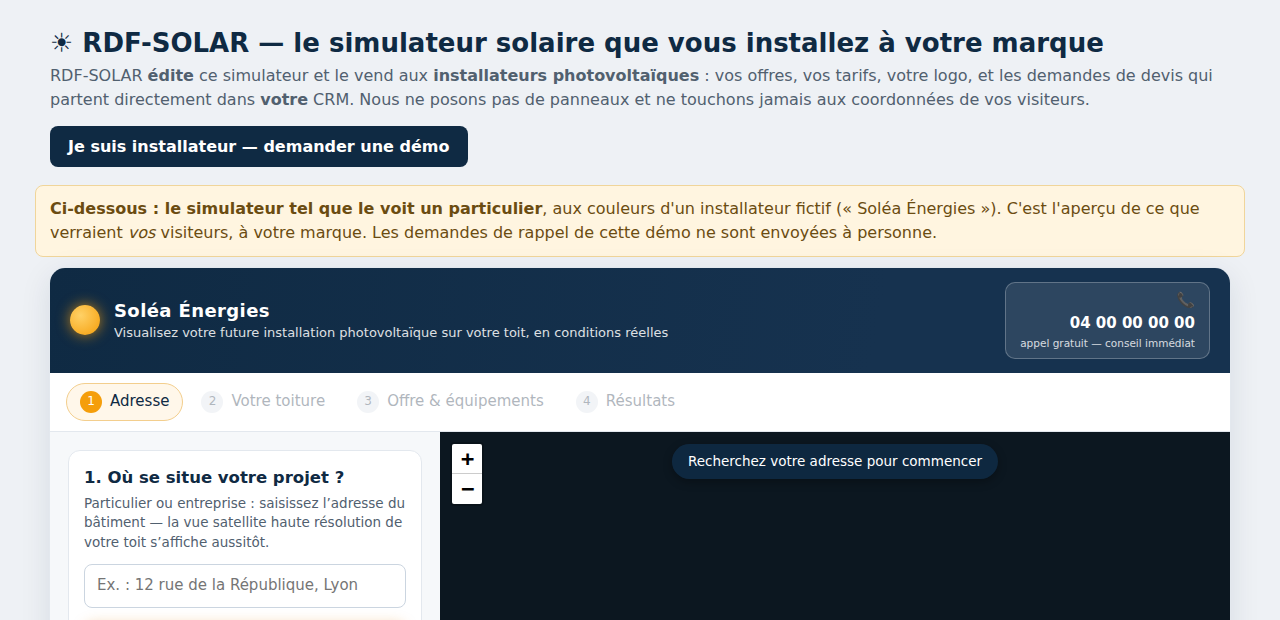
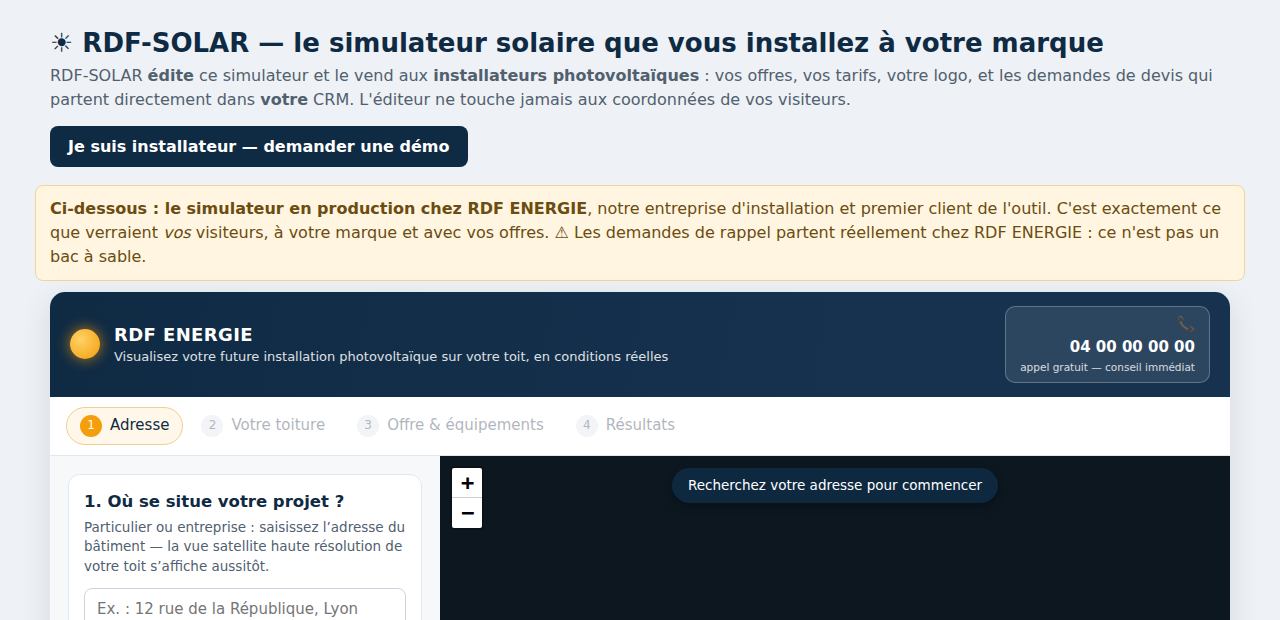
Nommer l'installateur : RDF ENERGIE, et non le logiciel
Le champ `brand.name` portait « RDF-SOLAR », c'est-à-dire le nom de
l'ÉDITEUR à la place de celui de l'INSTALLATEUR. RDF ENERGIE, notre
entreprise de pose et premier client du simulateur, n'était nommée nulle
part dans le dépôt. C'est la racine de la confusion : un visiteur voyait
l'éditeur d'un logiciel lui proposer de poser des panneaux.

- `config/offers.json` : `brand.name` devient « RDF ENERGIE ». Le
  catalogue est présenté pour ce qu'il est — celui de notre installateur,
  traité comme un client tiers pour que le deuxième s'intègre sans
  réécriture. `contactEmail` et `phone` restent ceux du logiciel et sont
  signalés à remplacer par les coordonnées commerciales de RDF ENERGIE.
- Vitrine : le bandeau ne parle plus d'installateur fictif ni de démo
  inerte. Le simulateur est en production chez RDF ENERGIE et les
  demandes de rappel lui parviennent réellement — c'est dit au visiteur.
- README : tableau des deux entités RDF (éditeur / installateur), et
  rappel que le SaaS n'a qu'un client, qui est nous-mêmes — d'où
  l'absence de pression, jusqu'ici, à séparer les deux rôles.

Vérifié au navigateur : logo, pied de page et message WhatsApp portent
« RDF ENERGIE » ; « RDF-SOLAR » n'apparaît que dans la vitrine éditeur.
Capture docs/screenshots/vitrine.png régénérée. 36 tests moteur au vert.

Claude-Session: https://claude.ai/code/session_01Nsyt4T5Hoqm8S2CawmfpLq

Changed region(s): [[0.0312, 0.3065, 0.9688, 1.0], [0.2812, 0.1532, 0.8438, 0.1839]]

diff --git a/dist/rdf-solar-demo-autonome.html b/dist/rdf-solar-demo-autonome.html
@@ -1382,9 +1382,10 @@ svg.leaflet-image-layer.leaflet-interactive path {
   <p>Fichier unique, à ouvrir dans un navigateur connecté à Internet. RDF-SOLAR édite ce simulateur et le vend aux installateurs photovoltaïques.</p>
 </div>
 <div class="demo-note">
-  Le simulateur ci-dessous est affiché aux couleurs d'un installateur <b>fictif</b>
-  (« Soléa Énergies ») : c'est l'aperçu de ce que verraient vos visiteurs, à votre marque.
-  Les demandes de rappel de cette démo ne sont envoyées à personne.
+  Le simulateur ci-dessous est affiché aux couleurs de <b>RDF ENERGIE</b>, notre entreprise
+  d'installation et premier client de l'outil : c'est exactement ce que verraient vos
+  visiteurs, à votre marque et avec vos offres. ⚠ Les demandes de rappel partent réellement
+  chez RDF ENERGIE.
 </div>
 <div id="rdf-solar-sim"></div>
 <script>/* @preserve
@@ -5516,10 +5517,11 @@ svg.leaflet-image-layer.leaflet-interactive path {
 <script>
   window.__sim = RDFSolarSim.mount('#rdf-solar-sim', {
     offers: {
-  "_lecteur": "Catalogue de DÉMONSTRATION et modèle à copier. La marque ci-dessous est un installateur FICTIF : la démo publique doit montrer le simulateur aux couleurs d'un client, jamais aux nôtres — sinon un particulier croit que RDF-SOLAR pose des panneaux et nous envoie un lead qui n'est pas le nôtre. Remplacez tout le bloc brand par vos coordonnées réelles.",
+  "_lecteur": "Catalogue de RDF ENERGIE, notre entreprise d'installation — premier client du simulateur, et modèle à copier pour les suivants. Le champ brand.name porte l'INSTALLATEUR (RDF ENERGIE), jamais le logiciel (RDF-SOLAR) : c'est cette confusion qui faisait croire aux visiteurs que l'éditeur posait des panneaux. Pour un nouveau client, remplacez tout le bloc brand par ses coordonnées.",
+  "_a_confirmer": "contactEmail et phone sont ceux du logiciel, pas encore ceux de RDF ENERGIE — à remplacer par les coordonnées commerciales réelles de l'installateur.",
   "brand": {
-    "name": "Soléa Énergies",
-    "contactEmail": "contact@solea-energies.example",
+    "name": "RDF ENERGIE",
+    "contactEmail": "contact@rdf-solar.fr",
     "phone": "04 00 00 00 00",
     "whatsapp": "33600000000",
     "devisEndpoint": "",

diff --git a/index.html b/index.html
@@ -41,14 +41,16 @@
 <body>
   <!-- Cette page s'adresse aux INSTALLATEURS (nos clients). Le widget plus bas
        s'adresse aux PARTICULIERS (les visiteurs de nos clients). Les deux
-       publics, et donc les deux types de leads, doivent rester distincts. -->
+       publics, et donc les deux types de leads, doivent rester distincts.
+       Le widget tourne sous la marque RDF ENERGIE, notre entreprise
+       d'installation et premier client du simulateur : ses leads lui
+       reviennent, exactement comme ceux d'un client tiers. -->
   <div class="vitrine">
     <h1>☀ RDF-SOLAR — le simulateur solaire que vous installez à votre marque</h1>
     <p>
       RDF-SOLAR <b>édite</b> ce simulateur et le vend aux <b>installateurs photovoltaïques</b> :
       vos offres, vos tarifs, votre logo, et les demandes de devis qui partent directement
-      dans <b>votre</b> CRM. Nous ne posons pas de panneaux et ne touchons jamais aux
-      coordonnées de vos visiteurs.
+      dans <b>votre</b> CRM. L'éditeur ne touche jamais aux coordonnées de vos visiteurs.
     </p>
     <a class="vitrine-cta"
        href="mailto:contact@rdf-solar.fr?subject=%5BSaaS%5D%20Demande%20de%20d%C3%A9mo%20du%20simulateur&amp;body=Bonjour%2C%0A%0AJe%20suis%20installateur%20photovolta%C3%AFque%20et%20je%20souhaite%20une%20d%C3%A9monstration%20du%20simulateur.%0A%0ASoci%C3%A9t%C3%A9%20%3A%0AT%C3%A9l%C3%A9phone%20%3A%0A">
@@ -57,10 +59,10 @@
   </div>
 
   <div class="vitrine-note">
-    <b>Ci-dessous : le simulateur tel que le voit un particulier</b>, aux couleurs d'un
-    installateur fictif (« Soléa Énergies »). C'est l'aperçu de ce que verraient
-    <i>vos</i> visiteurs, à votre marque. Les demandes de rappel de cette démo ne sont
-    envoyées à personne.
+    <b>Ci-dessous : le simulateur en production chez RDF ENERGIE</b>, notre entreprise
+    d'installation et premier client de l'outil. C'est exactement ce que verraient
+    <i>vos</i> visiteurs, à votre marque et avec vos offres. ⚠ Les demandes de rappel
+    partent réellement chez RDF ENERGIE : ce n'est pas un bac à sable.
   </div>
 
   <div id="rdf-solar-sim"></div>

diff --git a/build-demo.js b/build-demo.js
@@ -43,9 +43,10 @@ const html = `<!DOCTYPE html>
   <p>Fichier unique, à ouvrir dans un navigateur connecté à Internet. RDF-SOLAR édite ce simulateur et le vend aux installateurs photovoltaïques.</p>
 </div>
 <div class="demo-note">
-  Le simulateur ci-dessous est affiché aux couleurs d'un installateur <b>fictif</b>
-  (« Soléa Énergies ») : c'est l'aperçu de ce que verraient vos visiteurs, à votre marque.
-  Les demandes de rappel de cette démo ne sont envoyées à personne.
+  Le simulateur ci-dessous est affiché aux couleurs de <b>RDF ENERGIE</b>, notre entreprise
+  d'installation et premier client de l'outil : c'est exactement ce que verraient vos
+  visiteurs, à votre marque et avec vos offres. ⚠ Les demandes de rappel partent réellement
+  chez RDF ENERGIE.
 </div>
 <div id="rdf-solar-sim"></div>
 <script>${safeJs(read('vendor/leaflet/leaflet.js'))}</script>

diff --git a/README.md b/README.md
@@ -8,25 +8,36 @@ Un widget intégrable qui permet à un particulier ou une entreprise, à partir 
 
 ## 0. Qui est qui — à lire avant tout le reste
 
-RDF-SOLAR **édite** ce simulateur et le vend aux installateurs photovoltaïques. Le widget est donc installé **chez vous, à votre marque**. Dans tout ce dépôt :
+**Deux entreprises portent le nom « RDF », et les confondre est la source de tous les malentendus de ce projet :**
+
+| Entité | Métier | Rôle ici |
+|---|---|---|
+| **RDF-SOLAR** | Éditeur de logiciel | **Édite** le simulateur et le vend aux installateurs. Ne pose pas de panneaux. |
+| **RDF ENERGIE** | Installateur photovoltaïque | **Utilise** le simulateur sur son site. Premier — et pour l'instant seul — client. |
+
+RDF ENERGIE est notre propre entreprise d'installation, mais elle est traitée dans le code **exactement comme un client tiers** : une entrée `brand` dans un `config/offers.json`, ni plus ni moins. C'est la seule façon de garantir que le deuxième client s'intégrera sans rien réécrire.
+
+Le vocabulaire du dépôt en découle :
 
 | Terme | Désigne | Exemple |
 |---|---|---|
-| **Vous / votre** | L'**installateur client**, abonné au SaaS | « votre CRM », « vos offres », « votre site » |
-| **Le visiteur** | Le particulier qui simule son toit sur votre site | il devient un lead |
-| **RDF-SOLAR** | L'**éditeur** du simulateur — nous | on n'apparaît nulle part dans votre widget |
+| **Vous / votre** | L'**installateur client** (aujourd'hui RDF ENERGIE) | « votre CRM », « vos offres », « votre site » |
+| **Le visiteur** | Le particulier qui simule son toit sur le site de l'installateur | il devient un lead |
+| **RDF-SOLAR** | L'**éditeur** du simulateur | n'apparaît jamais dans le widget d'un client |
 
 ### Le mot « lead » n'a qu'un seul sens ici
 
 Dans le code (`_openLeadModal`, `_submitLead`, `_leadContext`, sujet d'e-mail `[LEAD]`) comme dans cette documentation, **un lead est toujours un lead visiteur** : le particulier qui a simulé son toit et demande un rappel, un WhatsApp ou une visite drone.
 
-**Ce lead vous appartient, pas à nous.** Il part vers `brand.devisEndpoint` ou `brand.contactEmail`, tous deux lus dans **votre** `config/offers.json`. Aucune coordonnée de visiteur ne transite par RDF-SOLAR : le widget tourne entièrement dans le navigateur et poste directement chez vous.
+**Ce lead appartient à l'installateur, pas à l'éditeur.** Il part vers `brand.devisEndpoint` ou `brand.contactEmail`, tous deux lus dans **son** `config/offers.json`. Aucune coordonnée de visiteur ne transite par RDF-SOLAR : le widget tourne entièrement dans le navigateur et poste directement chez l'installateur.
+
+Aujourd'hui ces leads vont donc chez **RDF ENERGIE**. Que ce soit la même maison que l'éditeur ne change rien : ils sont à traiter comme des leads de RDF ENERGIE, avec ses coordonnées et son CRM. Le jour où un client tiers s'ajoute, la mécanique est déjà la bonne.
 
 Nos propres prospects — les installateurs qui souscrivent au SaaS — **n'apparaissent nulle part dans ce dépôt** : ils relèvent de notre commercial, pas du simulateur. Si vous lisez « lead » dans une issue, une PR ou un commentaire de code, il s'agit du lead visiteur.
 
 ### Conséquence pour le code : rien de « RDF-SOLAR » en dur
 
-Tout texte vu par le visiteur qui nomme une entreprise doit passer par `brand.name` (helpers `_brandName()` / `_brandSuffix()` dans `src/rdf-solar-sim.js`). Sans marque configurée, le widget affiche un libellé neutre et **ne se rabat jamais** sur notre nom ni sur `contact@rdf-solar.fr` — un repli de ce genre enverrait chez nous un lead qui vous revient. Si aucune destination (`devisEndpoint` ni `contactEmail`) n'est configurée, le visiteur est explicitement renvoyé vers votre téléphone plutôt que de recevoir une fausse confirmation.
+Tout texte vu par le visiteur qui nomme une entreprise doit passer par `brand.name` (helpers `_brandName()` / `_brandSuffix()` dans `src/rdf-solar-sim.js`). **C'est le nom de l'installateur qui s'affiche — « RDF ENERGIE » — jamais celui du logiciel.** Sans marque configurée, le widget affiche un libellé neutre et **ne se rabat jamais** sur le nom de l'éditeur ni sur `contact@rdf-solar.fr` — un repli de ce genre enverrait chez l'éditeur un lead qui revient à l'installateur. Si aucune destination (`devisEndpoint` ni `contactEmail`) n'est configurée, le visiteur est explicitement renvoyé vers votre téléphone plutôt que de recevoir une fausse confirmation.
 
 ### Les deux publics de ce dépôt, et leurs deux CTA
 
@@ -34,18 +45,21 @@ Tout texte vu par le visiteur qui nomme une entreprise doit passer par `brand.na
 
 | Zone de la page | S'adresse à | Le bouton produit… |
 |---|---|---|
-| L'en-tête « je suis installateur — demander une démo » | L'installateur, **notre** prospect | **notre** lead → `contact@rdf-solar.fr`, sujet `[SaaS]` |
-| Le widget en dessous | Le particulier, prospect **de l'installateur** | un **lead visiteur** → l'installateur affiché |
+| L'en-tête « je suis installateur — demander une démo » | L'installateur, prospect de **RDF-SOLAR** | un **lead SaaS** → `contact@rdf-solar.fr`, sujet `[SaaS]` |
+| Le widget en dessous | Le particulier, prospect de **RDF ENERGIE** | un **lead visiteur** → RDF ENERGIE |
 
 ![Les deux publics de la page vitrine](docs/screenshots/vitrine.png)
 
-Le widget de la démo tourne volontairement sous une marque d'installateur **fictive** (« Soléa Énergies », `config/offers.json`). Deux raisons : la démo montre ainsi ce que verrait un client à sa propre marque, et un particulier de passage ne peut plus nous envoyer une demande de devis que nous ne saurions pas traiter. **Ne remettez pas notre marque dans le widget de démo** — c'est précisément ce qui entretenait la confusion.
+Le widget affiche la marque **RDF ENERGIE** (`config/offers.json`) : ce n'est pas un décor, c'est le simulateur en production chez notre installateur. Deux conséquences à ne pas perdre de vue :
+
+1. **Les demandes de rappel de cette page partent réellement** chez RDF ENERGIE — ce n'est pas un bac à sable, et c'est bien ainsi : ce sont de vrais leads.
+2. **Ne remettez jamais « RDF-SOLAR » dans `brand.name`.** Le champ porte l'installateur ; y mettre le nom du logiciel est exactement la confusion que ce dépôt a mis des mois à traîner — un visiteur en concluait que l'éditeur posait des panneaux.
 
 ---
 
 ## 0 bis. État réel du produit — ce qui existe et ce qui n'existe pas
 
-Pour éviter un autre malentendu : ce qui est **en ligne** aujourd'hui est la **vitrine + la démo du widget**, pas une plateforme en libre-service.
+Pour éviter un autre malentendu : ce qui est **en ligne** aujourd'hui est la **vitrine + le simulateur de RDF ENERGIE**, pas une plateforme en libre-service. Le SaaS compte **un client, qui est nous-mêmes** — l'outil n'a donc encore jamais été confronté à un second jeu de contraintes.
 
 **Ce qui existe et fonctionne :**
 
@@ -63,6 +77,8 @@ Pour éviter un autre malentendu : ce qui est **en ligne** aujourd'hui est la **
 - tableau de bord des leads, statistiques d'usage.
 
 La livraison se fait donc pour l'instant **manuellement, client par client** : on copie `src/`, `vendor/`, `config/`, on remplit `offers.json` à sa marque, il l'intègre à son site.
+
+**Le vrai test du produit reste devant nous** : tant que l'unique client est RDF ENERGIE, rien n'oblige à séparer proprement l'éditeur de l'installateur — et c'est précisément pour ça que le code les avait mélangés. Le deuxième client est ce qui rendra la séparation obligatoire ; mieux vaut qu'elle soit déjà faite, ce qui est désormais le cas.
 
 ---
 
@@ -112,7 +128,7 @@ Confort de dessin : clic droit = annuler le dernier point, Échap = quitter le m
 
 ## 4. Intégrer le widget sur votre site
 
-Copiez les dossiers `src/`, `vendor/` et `config/`, **remplacez la marque fictive de `config/offers.json` par la vôtre** (voir § 5), puis :
+Copiez les dossiers `src/`, `vendor/` et `config/`, **remplacez le bloc `brand` de `config/offers.json` par le vôtre** (voir § 5), puis :
 
 ```html
 <link rel="stylesheet" href="vendor/leaflet/leaflet.css">
@@ -159,7 +175,7 @@ Limite à connaître : `buildingInsights` ne fournit **pas les contours exacts**
 
 ## 5. Personnaliser vos offres et votre marque — `config/offers.json`
 
-Le fichier livré contient une marque d'installateur **fictive** (« Soléa Énergies ») : c'est ce qui fait tourner la démo. **Premier geste d'une intégration : remplacer tout le bloc `brand`.**
+Le fichier livré contient la marque de **RDF ENERGIE**, notre installateur : c'est ce qui fait tourner le simulateur en ligne. **Premier geste d'une intégration chez un nouveau client : remplacer tout le bloc `brand` par le sien.**
 
 Tout le commercial est dans ce fichier, modifiable sans toucher au code. **C'est aussi lui qui porte votre marque** : `brand.name` remplace le nom affiché dans l'en-tête, le pied de page, l'étape « Votre offre », le message WhatsApp pré-rempli et l'étude imprimable.
 
